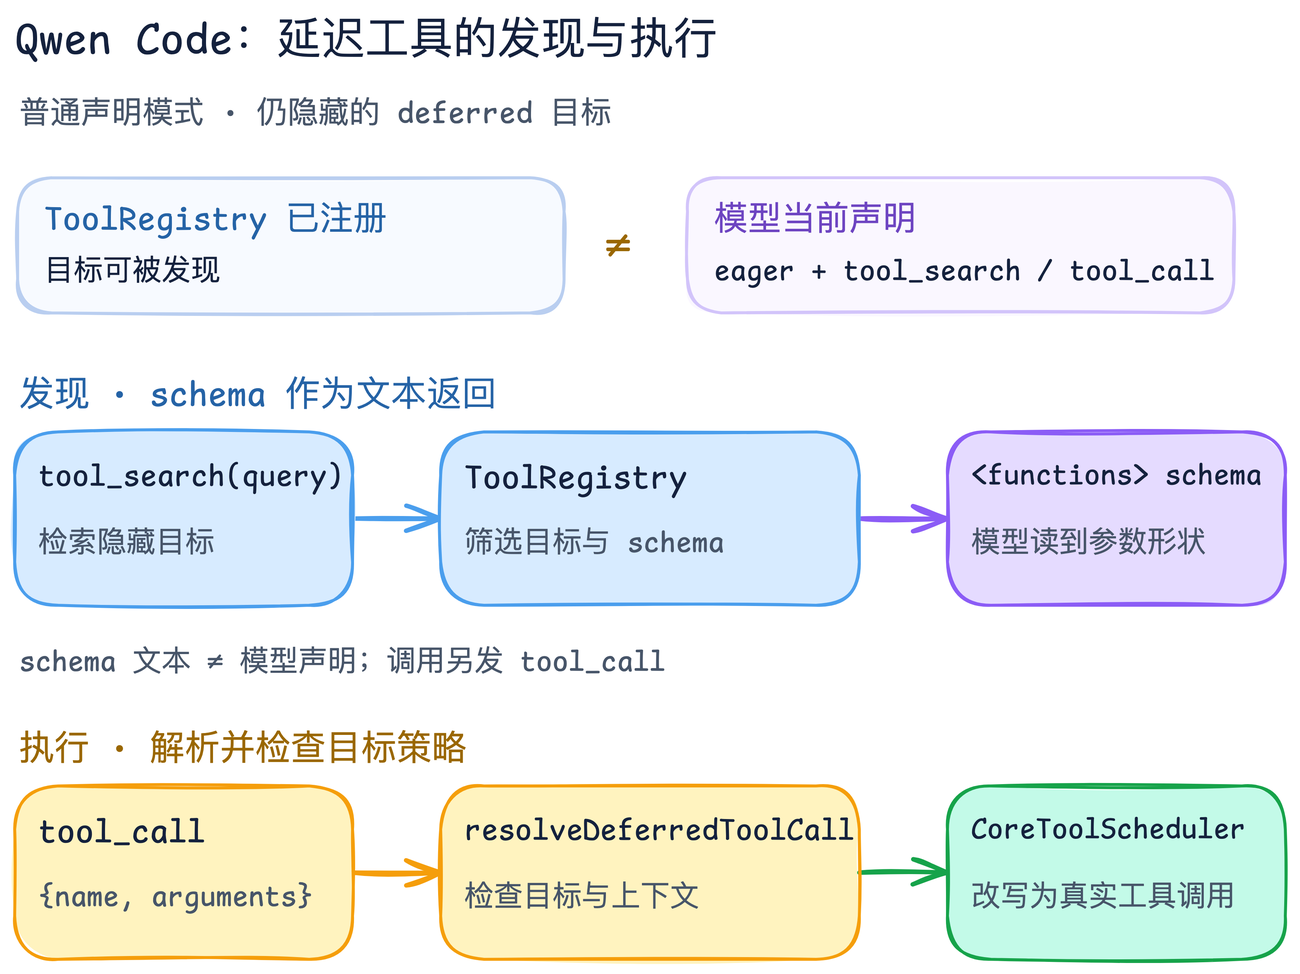
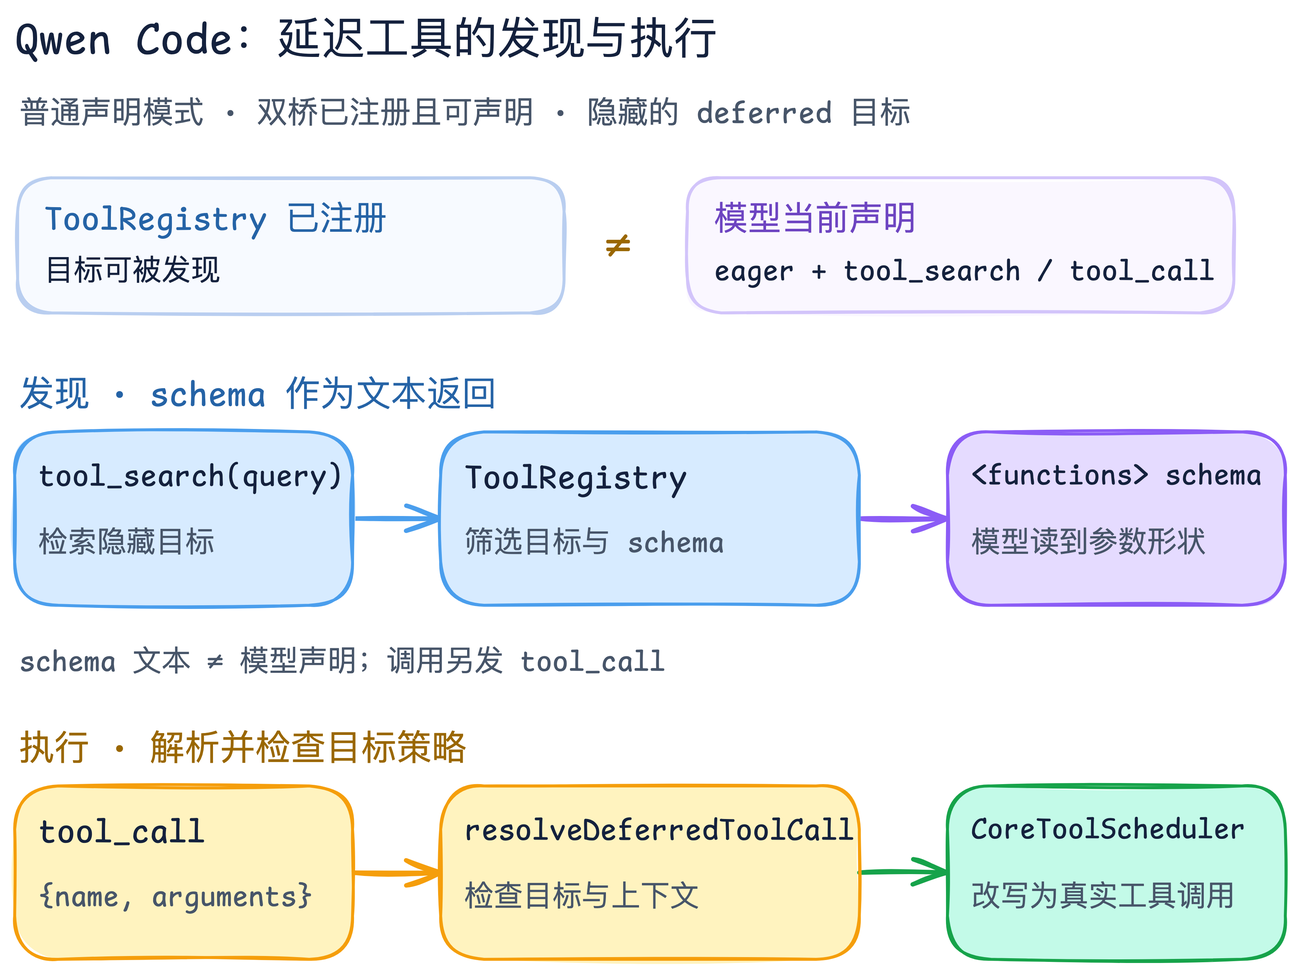
Complete sampled source second pass and qualify diagram branches

Changed region(s): [[0.1864, 0.0928, 0.7147, 0.1237]]

diff --git a/figures/browser-use-step/build.py b/figures/browser-use-step/build.py
@@ -49,7 +49,7 @@ def build() -> None:
     exchange(d, "model-output", 575, 115, 385, "AgentOutput.action", purple, 265, 244)
     exchange(d, "execute-actions", 115, 345, 451, "multi_act → Tools.act", orange, 128, 250)
     exchange(d, "action-result", 345, 115, 517, "ActionResult", orange, 175, 175)
-    exchange(d, "write-history", 115, 805, 583, "_finalize → AgentHistory（有 last_result 时）", green, 286, 500)
+    exchange(d, "write-history", 115, 805, 583, "_finalize → AgentHistory（有结果且状态摘要时）", green, 286, 500)
 
     d.box("screenshot-note", 30, 621, 860, 96, "#9dbfe8", "#f4f9ff")
     d.text("screenshot-title", "截图采集：include_screenshot=True", 47, 635, 430, 19, "#2563a6", 8)

diff --git a/figures/qwen-code-deferred-tools/build.py b/figures/qwen-code-deferred-tools/build.py
@@ -36,7 +36,7 @@ def arrow(scene: Scene, name: str, x0: int, x1: int, y: int, color: str) -> None
 def build() -> None:
     d = Scene()
     d.text("title", "Qwen Code：延迟工具的发现与执行", 34, 25, 850, 30, INK, 8)
-    d.text("scope", "普通声明模式 · 仍隐藏的 deferred 目标", 37, 80, 820, 21, MUTED, 8)
+    d.text("scope", "普通声明模式 · 双桥已注册且可声明 · 隐藏的 deferred 目标", 37, 80, 820, 21, MUTED, 8)
 
     # Registration and model declaration are distinct states, not call steps.
     d.box("registry-band", 36, 136, 372, 92, "#b9cef0", "#f7faff")

diff --git a/docs/reviews/2026-09-24-static-second-pass.md b/docs/reviews/2026-09-24-static-second-pass.md
@@ -2,7 +2,7 @@
 
 [返回当前进度](../roadmap.md) · [写作与验收方法](../editorial-plan.md)
 
-本轮由未参与这些章节写作的 AI 审稿任务重新打开固定版本源码，核对正文的关键因果链与发布图的事实箭头；另一个只读任务检查历史 QA 问题、网页窄屏入口和两张 PDF 实页。**这是第二视角的静态审稿，不是人类冷读、运行实测、完整上游审计或出版签收。**以下“未发现”只适用于列出的窄路径。
+本轮由未参与这些章节写作的 AI 审稿任务重新打开固定版本源码，核对正文的关键因果链与发布图的事实箭头；另一个只读任务检查历史 QA 问题、网页窄屏入口和两张 PDF 实页。首批四篇之后，又对其余十篇各抽查三条可证伪主张及相应发布图。**这是第二视角的静态审稿，不是人类冷读、运行实测、完整上游审计或出版签收。**以下“未发现”只适用于列出的窄路径。
 
 | 局部剖面 | 本轮核对的关键关系 | 证据入口与结论 |
 | --- | --- | --- |
@@ -11,8 +11,25 @@
 | [Mem0](../systems/mem0/README.md) | `infer=True` 的提取、去重、尝试写入；检索的语义候选与关键词／实体加分。 | [固定版本](https://github.com/mem0ai/mem0/tree/f8082a7345dadd9e042ebbc40b57b1498c8f6d63) · [代码导读](../systems/mem0/code-walkthrough.md) · [图的文字版](../../figures/mem0-retrieval/README.md)。主链未见错误；正文已收紧“批量 insert”措辞，保留返回 ADD 不证明逐项持久化的边界。 |
 | [LangGraph](../systems/langgraph/README.md) | 指定 checkpoint 读取旧版本、`update_state` 生成带父指针的新版本、使用返回 config 续跑。 | [固定版本](https://github.com/langchain-ai/langgraph/tree/bdb85b5aa87a21de68371d2e534b81aeed398f57) · [代码导读](../systems/langgraph/code-walkthrough.md) · [图的文字版](../../figures/langgraph-checkpoints/README.md)。未把状态分叉说成外部副作用回滚。 |
 
+## 追加十篇：循环、执行、上下文与编排
+
+两个独立的只读审稿任务分别复核五篇。每篇抽查三条主张和发布图，不代表该项目所有代码、模式或配置均已审计；主张的固定源码链接和详细条件见各篇代码导读。
+
+| 局部剖面 | 本次确认的窄路径 | 处理与限制 |
+| --- | --- | --- |
+| [Pi](../systems/pi/README.md) | steering／follow-up 检查点、工具错误结果与批次终止、coding-agent 的会话记录。 | [代码导读](../systems/pi/code-walkthrough.md)；“三份视图”属工程解释，不把会话投影说成原始历史。 |
+| [Codex](../systems/codex/README.md) | 命令处理入口、策略三路结果、沙箱拒绝后的条件性再审批。 | [代码导读](../systems/codex/code-walkthrough.md)；`Skip` 不等于无沙箱。 |
+| [OpenCode](../systems/opencode/README.md) | `ToolPart` 状态、未收束清理、模型流重试与单个工具错误的区别。 | [代码导读](../systems/opencode/code-walkthrough.md)；重试来源已补固定版源码链接。 |
+| [mini-SWE-agent](../systems/mini-swe-agent/README.md) | `DefaultAgent` 的消息尾部停止契约、本地命令哨兵、限额及格式错误退出。 | [代码导读](../systems/mini-swe-agent/code-walkthrough.md)；图是基类路径，CLI 默认交互子类。 |
+| [Browser Use](../systems/browser-use/README.md) | 截图请求／模型输入／历史记录的不同条件，多动作停止，以及历史项生成。 | [代码导读](../systems/browser-use/code-walkthrough.md)与[图源](../../figures/browser-use-step/README.md)已补 `_finalize()` 写历史须同时有 `last_result` 和 `browser_state_summary`；见[固定源码](https://github.com/browser-use/browser-use/blob/d8110c5ff87ccba887aaa726cdb780f2f84bef8d/browser_use/agent/service.py#L1356-L1385)。 |
+| [Qwen Code](../systems/qwen-code/README.md) | 注册与模型声明分离、schema 文本发现、wrapper 解析与调度器检查。 | [代码导读](../systems/qwen-code/code-walkthrough.md)与[图源](../../figures/qwen-code-deferred-tools/README.md)已补双桥“已注册且可声明”的前提；见[声明过滤](https://github.com/QwenLM/qwen-code/blob/b9840886b86c23f196482cc1ee55d59cbc74df87/packages/core/src/tools/tool-registry.ts#L850-L869)。 |
+| [Kimi Code](../systems/kimi-code/README.md) | 活动 turn 的 steer 缓冲与刷新、取消／步数／异常停止。 | [代码导读](../systems/kimi-code/code-walkthrough.md)；已有 68 个 mock 测试本轮未复跑，不能替代真实 CLI。 |
+| [MiMo Code](../systems/mimo-code/README.md) | 用量触发后台 writer、成功后推进 watermark、checkpoint 分支。 | [代码导读](../systems/mimo-code/code-walkthrough.md)；已有 7 个纯函数测试本轮未复跑，不能证明真实写入与恢复。 |
+| [OpenClaw](../systems/openclaw/README.md) | 显式 key 的目标与 owner 约束、规范化授权、admission／dispatch。 | [代码导读](../systems/openclaw/code-walkthrough.md)；路由通过不等于任务执行成功。 |
+| [GPT Researcher](../systems/gpt-researcher/README.md) | Hybrid 的文档与网页上下文汇合、空文档回退、报告写作入口。 | [代码导读](../systems/gpt-researcher/code-walkthrough.md)；固定标签不证明输出已有可靠来源。 |
+
 历史 QA 的 Kimi Code／MiMo Code 来源登记已在 [`sources/systems.json`](../../sources/systems.json) 与正文中核对；`python3 scripts/check_sources.py` 检查 14 篇通过。OpenCode 的单个 `ToolPart.error` 不自动触发会话重试；[横向对照](../comparisons/loop-and-stop.md)已补固定版本 [`retry.ts` 的可重试判定与上限](https://github.com/anomalyco/opencode/blob/18ef3cc7c5a25b82114c953a80ccc09f4988f74e/packages/opencode/src/session/retry.ts#L85-L205)。审稿建议的初始行号与该固定文件不符，合稿时已重新打开原文件校正。
 
 窄屏网页抽查以 390px 视口确认无横向溢出、能打开原尺寸 SVG；线上 107 页 PDF 的 LangGraph 第 78 页和 GPT Researcher 第 84 页、以及本地较新的 109 页导出均做了图页抽查，未见明显遮挡。严格图稿几何预检两图最低字号分别为 9.3 pt、9.2 pt。抽查不等于 25 张图的逐页视觉签收，也不保证实体纸面可读。
 
-**尚未核验：**这四套系统的真实模型／provider 运行轨迹、故障注入、生产 saver、跨设备同步和外部副作用；其余系统篇的同等深度第二次源码复核；第三方权益；真实读者冷读及印刷样张。后续若改正文或图，应重新核对固定源码、`.excalidraw`、SVG／PNG 与图的文字版，而不是沿用本次结论。
+**尚未核验：**14 套系统的真实模型／provider 运行轨迹、故障注入、生产 saver／writer、跨设备同步和外部副作用；未抽查的代码分支与配置；第三方权益；真实读者冷读及印刷样张。后续若改正文或图，应重新核对固定源码、`.excalidraw`、SVG／PNG 与图的文字版，而不是沿用本次结论。

diff --git a/docs/systems/browser-use/code-walkthrough.md b/docs/systems/browser-use/code-walkthrough.md
@@ -12,13 +12,13 @@ step():
   _execute_actions()                      # multi_act → Tools.act
   _post_process()                         # 下载、计划、失败计数等
 finally:
-  _finalize(summary)                      # 有 last_result 时记录 AgentHistory
+  _finalize(summary)                      # 有 last_result 且 summary 时记录 AgentHistory
 ```
 
 1. `_prepare_context()` 调用 `BrowserSession.get_browser_state_summary(include_screenshot=True)`，检查下载、更新页面相关动作，再让消息管理器准备上一轮结果并构造当前状态消息；是否把截图置入模型消息由 `use_vision` 控制。[上下文准备](https://github.com/browser-use/browser-use/blob/d8110c5ff87ccba887aaa726cdb780f2f84bef8d/browser_use/agent/service.py#L1087-L1160) · [截图条件](https://github.com/browser-use/browser-use/blob/d8110c5ff87ccba887aaa726cdb780f2f84bef8d/browser_use/agent/message_manager/service.py#L449-L502)
 2. 状态摘要不是简单读取一个缓存字段；`BrowserSession` 派发 `BrowserStateRequestEvent` 并等待结果。超时会清空选择器映射，回退到含错误的非可操作摘要。这说明观测失败时不能安全地沿用旧 DOM 索引。[状态请求与超时](https://github.com/browser-use/browser-use/blob/d8110c5ff87ccba887aaa726cdb780f2f84bef8d/browser_use/browser/session.py#L1595-L1679)
 3. `_get_next_action()` 从消息管理器取得输入，带超时调用模型输出重试包装，将 `AgentOutput` 放进 `last_model_output`；`_execute_actions()` 把其中动作列表交给 `multi_act()`，并保存 `last_result`。[模型阶段](https://github.com/browser-use/browser-use/blob/d8110c5ff87ccba887aaa726cdb780f2f84bef8d/browser_use/agent/service.py#L1175-L1217)
 4. `multi_act()` 逐一调用 `Tools.act()`。它在余下动作存在时检查注册动作的 `terminates_sequence` 与动作前后 URL/焦点目标变化；结果完成或报错也会提前停止。`Tools.act()` 再通过动作注册表执行实际动作，使用每动作超时，并把常见异常转成 `ActionResult(error=...)`。[多动作守卫](https://github.com/browser-use/browser-use/blob/d8110c5ff87ccba887aaa726cdb780f2f84bef8d/browser_use/agent/service.py#L2730-L2828) · [工具分发](https://github.com/browser-use/browser-use/blob/d8110c5ff87ccba887aaa726cdb780f2f84bef8d/browser_use/tools/service.py#L2178-L2253)
-5. `_finalize()` 在有 `last_result` 时调用 `_make_history_item()`；后者从当前浏览器摘要保存 URL、标题、标签页、交互元素和可用截图路径，并与模型输出、动作结果、step 元数据组成 `AgentHistory`。模型输出存在时，`_finalize()` 还派发 `CreateAgentStepEvent`。[最终处理](https://github.com/browser-use/browser-use/blob/d8110c5ff87ccba887aaa726cdb780f2f84bef8d/browser_use/agent/service.py#L1356-L1415) · [历史项构造](https://github.com/browser-use/browser-use/blob/d8110c5ff87ccba887aaa726cdb780f2f84bef8d/browser_use/agent/service.py#L1738-L1780)
+5. `_finalize()` 先要求 `last_result` 存在；只有当前浏览器摘要也可用时，才调用 `_make_history_item()`。后者从摘要保存 URL、标题、标签页、交互元素和可用截图路径，并与模型输出、动作结果、step 元数据组成 `AgentHistory`。有摘要和模型输出时，`_finalize()` 还派发 `CreateAgentStepEvent`。[最终处理](https://github.com/browser-use/browser-use/blob/d8110c5ff87ccba887aaa726cdb780f2f84bef8d/browser_use/agent/service.py#L1356-L1415) · [历史项构造](https://github.com/browser-use/browser-use/blob/d8110c5ff87ccba887aaa726cdb780f2f84bef8d/browser_use/agent/service.py#L1738-L1780)
 
 这里的历史项保存的是该 step 采集的状态摘要和执行结果，不等同于动作后重新抓取的完整网页快照；下一步会再调用 `_prepare_context()` 获取浏览器状态。这个区分来自 `step()` 的调用顺序和 `_make_history_item()` 的入参，尚未用运行日志验证。[调用顺序](https://github.com/browser-use/browser-use/blob/d8110c5ff87ccba887aaa726cdb780f2f84bef8d/browser_use/agent/service.py#L1063-L1085) · [入参](https://github.com/browser-use/browser-use/blob/d8110c5ff87ccba887aaa726cdb780f2f84bef8d/browser_use/agent/service.py#L1378-L1385)

diff --git a/docs/roadmap.md b/docs/roadmap.md
@@ -26,9 +26,9 @@
 
 1. **先把首条可运行练习审成书稿：**[本地 Agent loop 练习初稿](labs/first-agent-loop.md)与 `examples/first-agent-loop/` 已覆盖正常、写入被拒和重试规则被误改三条路径；它用固定脚本代替模型，只证明宿主控制流，不证明真实 Agent 的模型行为。另一 AI 审稿任务已从仓库根目录复跑三种模式和 3 个单测，并据初读反馈修订了提案与验收的措辞；这仍不是人类读者试读。请一位未参与写作的读者照稿完成练习、复述控制点，再决定是否进入书稿清单与公开 PDF；后续再做存储可见性和远端副作用练习。
 2. 对新补的委派、恢复、评测机制做非作者试读与故障/边界实验，特别验证实际多执行者交接；机制章的教学抽象不能冒充某一框架的完整保证。
-3. 按“入口 → 状态 → 分支 → 副作用 → 结束或恢复”二次复核其余系统篇；[2026-09-24 静态二审记录](reviews/2026-09-24-static-second-pass.md)已覆盖 OpenHands、Letta Code、Mem0、LangGraph 的窄路径和部分旧 QA，不能推成 14 篇全部通过。GPT Researcher 的独立代码导读已补。Kimi Code 的 mock 测试和 MiMo Code 的纯函数测试并非 CLI、provider、写入器或故障注入验证，继续优先补这些运行层证据，而非单纯增加项目数量。
+3. [2026-09-24 静态二审记录](reviews/2026-09-24-static-second-pass.md)现已覆盖 14 篇系统切面的抽样主张与发布图，Browser Use 和 Qwen Code 的条件性箭头已修订；这不是全部代码分支、配置或产品运行验证。GPT Researcher 的独立代码导读已补。Kimi Code 的 mock 测试和 MiMo Code 的纯函数测试并非 CLI、provider、写入器或故障注入验证，继续优先补这些运行层证据，而非单纯增加项目数量。
 4. 六篇现有对照先做同题一致性与非作者试读；权限/恢复和完成判断是教学推演与固定源码对照，不得包装成四套产品的同环境实测。
-5. 上游 14 个固定版本的**仓库根许可证**已逐项标注；仍需审查第三方素材、子目录、Apache NOTICE、外链及每篇主张的第二次源码核对。无环境与轨迹的运行说法继续标为未验证。
+5. 上游 14 个固定版本的**仓库根许可证**已逐项标注；仍需审查第三方素材、子目录、Apache NOTICE、外链及未抽查主张的源码依据。无环境与轨迹的运行说法继续标为未验证。
 6. 让非作者读者分别试读网页、可携带阅读包和 PDF；本轮新增图已检查 PDF 实页与 390px 手机网页视图，正式版还须打印实样并升级约 131 PPI 的封面插画。像素密度通过不等于字可读。
 7. 阅读站已核对公开版本的 65 个页面、sitemap、标题锚点与站内文件；站点所有权与 Search Console 索引/点击数据仍需账号侧验收。GEO 依靠可抓取的原创解释、明确来源和适用边界，不以关键词堆砌或未证实的“AI 收录”作为进度。
 8. 已上线的 PDF 是可替换的电子校样，HTML 保持主要阅读入口。下一次 PDF 发布必须重新构建、人工复核、锁定新散列、部署并逐字节验收；正式版需另做权益、无障碍与打印审稿。

diff --git a/figures/qwen-code-deferred-tools/README.md b/figures/qwen-code-deferred-tools/README.md
@@ -2,6 +2,6 @@
 
 [返回剖面](../../docs/systems/qwen-code/README.md) · [图源](scene.excalidraw) · [SVG](diagram.svg) · [PNG](preview.png)
 
-图上方先区分两个事实：`ToolRegistry` 已注册目标工具，但 `getFunctionDeclarations()` 不把仍隐藏的 deferred schema 放进普通模型声明；模型保留可见的 `tool_search` 与 `tool_call` 桥。蓝色“发现”轨道是 `tool_search` 检索并把 `<functions>` schema 文本返回给模型；这只让模型读到参数形状，不执行目标，也不把目标加入函数声明。橙色“执行”轨道是模型发出 `tool_call {name, arguments}`，`resolveDeferredToolCall` 检查目标与上下文，`CoreToolScheduler` 再把 wrapper 请求改写为真实目标并继续调度。后续仍按目标工具的策略执行。图内保留短标签，详细条件以本段和章节为准。两条轨道是机制拆解，不表示源码里有两个独立线程，也不表示每次调用前都必须先搜索。
+图上方先区分两个事实：`ToolRegistry` 已注册目标工具，但 `getFunctionDeclarations()` 不把仍隐藏的 deferred schema 放进普通模型声明；**只有双桥已注册且可声明时**，模型声明才包含 `tool_search` 与 `tool_call`。蓝色“发现”轨道是 `tool_search` 检索并把 `<functions>` schema 文本返回给模型；这只让模型读到参数形状，不执行目标，也不把目标加入函数声明。橙色“执行”轨道是模型发出 `tool_call {name, arguments}`，`resolveDeferredToolCall` 检查目标与上下文，`CoreToolScheduler` 再把 wrapper 请求改写为真实目标并继续调度。后续仍按目标工具的策略执行。图内保留短标签，详细条件以本段和章节为准。两条轨道是机制拆解，不表示源码里有两个独立线程，也不表示每次调用前都必须先搜索。
 
 图只针对**仍隐藏**的 deferred 工具。已预加载或被 reveal 的工具可直接出现在模型声明中；`CodeModeOnly` 则使用另一条声明机制。可见工具用 `tool_call` 包装会被拒绝，须直接调用。固定官方源码 [`b9840886b86c23f196482cc1ee55d59cbc74df87`](https://github.com/QwenLM/qwen-code/tree/b9840886b86c23f196482cc1ee55d59cbc74df87)，证据定位与未验证边界见[章节](../../docs/systems/qwen-code/README.md)。

diff --git a/docs/systems/qwen-code/README.md b/docs/systems/qwen-code/README.md
@@ -16,7 +16,7 @@
 
 ## 设计取舍
 
-这是一个“工具已注册，但完整 schema 按需给模型看”的折中：减少初始声明体积，同时保留发现和调用入口。源码在 `setTools()` 中取得注册表的声明列表，并向模型聊天对象设置它；`tool_search` 的文本回答本身不调用 `setTools()`。[setTools](https://github.com/QwenLM/qwen-code/blob/b9840886b86c23f196482cc1ee55d59cbc74df87/packages/core/src/core/client.ts#L1181-L1204) · [tool_search 实现](https://github.com/QwenLM/qwen-code/blob/b9840886b86c23f196482cc1ee55d59cbc74df87/packages/core/src/tools/tool-search.ts#L295-L411)
+在 `tool_search` 与 `tool_call` 都已注册且可声明的条件下，这是一个“工具已注册，但完整 schema 按需给模型看”的折中：减少初始声明体积，同时保留发现和调用入口。源码在 `setTools()` 中取得注册表的声明列表，并向模型聊天对象设置它；`tool_search` 的文本回答本身不调用 `setTools()`。[声明过滤](https://github.com/QwenLM/qwen-code/blob/b9840886b86c23f196482cc1ee55d59cbc74df87/packages/core/src/tools/tool-registry.ts#L835-L869) · [setTools](https://github.com/QwenLM/qwen-code/blob/b9840886b86c23f196482cc1ee55d59cbc74df87/packages/core/src/core/client.ts#L1181-L1204) · [tool_search 实现](https://github.com/QwenLM/qwen-code/blob/b9840886b86c23f196482cc1ee55d59cbc74df87/packages/core/src/tools/tool-search.ts#L295-L411)
 
 但这不是绝对的“deferred 永远隐藏”：小规模 deferred schema 可被预算预加载，历史回放或会话 setup 也可 reveal；`CodeModeOnly` 有不同声明路径。[预算预加载](https://github.com/QwenLM/qwen-code/blob/b9840886b86c23f196482cc1ee55d59cbc74df87/packages/core/src/tools/tool-registry.ts#L1032-L1085) · [模式分支](https://github.com/QwenLM/qwen-code/blob/b9840886b86c23f196482cc1ee55d59cbc74df87/packages/core/src/tools/tool-registry.ts#L850-L903)
 

diff --git a/figures/browser-use-step/README.md b/figures/browser-use-step/README.md
@@ -2,7 +2,7 @@
 
 [返回剖面](../../docs/systems/browser-use/README.md) · [图源](scene.excalidraw) · [SVG](diagram.svg) · [PNG](preview.png)
 
-图从上往下读，四条泳道依次是 Agent、BrowserSession + Tools、模型、AgentHistory。Agent 请求浏览器状态；浏览器返回包含 DOM/URL/可用截图的 `BrowserStateSummary`；Agent 的消息管理器构造输入交给模型；模型返回动作列表；Agent 经 `multi_act`、`Tools.act` 在浏览器侧执行；`ActionResult` 回到 Agent；在有结果的情况下 `_finalize` 追加 `AgentHistory`。箭头是教学整理的主路径，不表示所有步骤都一定发生或异步组件只有一种实际调度顺序。
+图从上往下读，四条泳道依次是 Agent、BrowserSession + Tools、模型、AgentHistory。Agent 请求浏览器状态；浏览器返回包含 DOM/URL/可用截图的 `BrowserStateSummary`；Agent 的消息管理器构造输入交给模型；模型返回动作列表；Agent 经 `multi_act`、`Tools.act` 在浏览器侧执行；`ActionResult` 回到 Agent；仅在有 `last_result` **且**状态摘要可用时，`_finalize` 才追加 `AgentHistory`。箭头是教学整理的主路径，不表示所有步骤都一定发生或异步组件只有一种实际调度顺序。
 
 图旁明确区分三件事：采集状态时请求截图、根据 `use_vision` 决定是否送进模型、若状态中有截图则历史记录可单独保存。图片没有把“采集截图”误画成“模型一定看图”。源码定位、失败守卫和未验证边界见[章节](../../docs/systems/browser-use/README.md)及[代码导读](../../docs/systems/browser-use/code-walkthrough.md)。
 

diff --git a/docs/systems/browser-use/README.md b/docs/systems/browser-use/README.md
@@ -19,6 +19,6 @@
 
 ## 边界与下一步
 
-时序图把源码中的异步调用整理成一条正常阅读路径；它**没有**断言每步一定进入历史：`_finalize()` 在没有 `last_result` 时直接返回，步骤异常、暂停、重连和超时分支会改变结果。[条件](https://github.com/browser-use/browser-use/blob/d8110c5ff87ccba887aaa726cdb780f2f84bef8d/browser_use/agent/service.py#L1356-L1360) · [异常处理](https://github.com/browser-use/browser-use/blob/d8110c5ff87ccba887aaa726cdb780f2f84bef8d/browser_use/agent/service.py#L1258-L1314)
+时序图把源码中的异步调用整理成一条正常阅读路径；它**没有**断言每步一定进入历史：`_finalize()` 在没有 `last_result` 时直接返回，有结果但没有浏览器状态摘要时也不会创建 `AgentHistory`。步骤异常、暂停、重连和超时分支会改变结果。[条件](https://github.com/browser-use/browser-use/blob/d8110c5ff87ccba887aaa726cdb780f2f84bef8d/browser_use/agent/service.py#L1356-L1385) · [异常处理](https://github.com/browser-use/browser-use/blob/d8110c5ff87ccba887aaa726cdb780f2f84bef8d/browser_use/agent/service.py#L1258-L1314)
 
 尚未启动浏览器、实测模型是否看到截图，也未验证截图存储、事件总线消费或页面变化检测的时延。Skills 在 `run()` 初始化阶段可注册为动作，但并非本图覆盖的执行链；后续应单独研究注册与权限边界。[Skills 注册入口](https://github.com/browser-use/browser-use/blob/d8110c5ff87ccba887aaa726cdb780f2f84bef8d/browser_use/agent/service.py#L2562-L2574)

diff --git a/docs/systems/qwen-code/code-walkthrough.md b/docs/systems/qwen-code/code-walkthrough.md
@@ -6,7 +6,7 @@
 
 ```text
 setTools(): ToolRegistry.getFunctionDeclarations() → 初始模型声明
-  hidden deferred 目标不在声明列表；tool_search 与 tool_call 留在列表
+  hidden deferred 目标不在声明列表；已注册且可声明的 tool_search / tool_call 留在列表
 
 请求一：tool_search(query)
   检索已注册且隐藏的 deferred 工具 → 返回 <functions>{schema}</functions>
